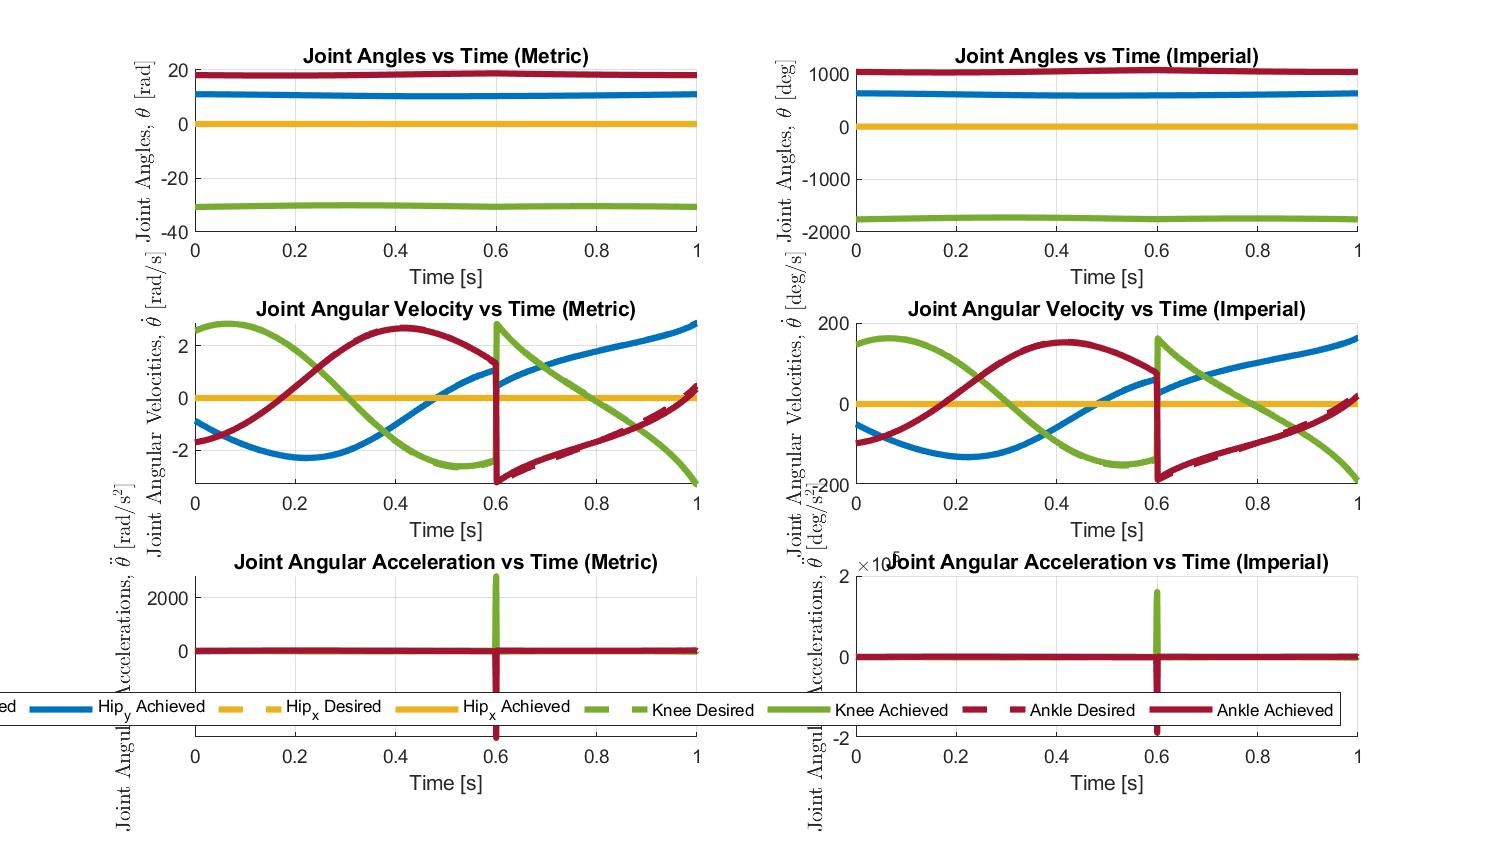
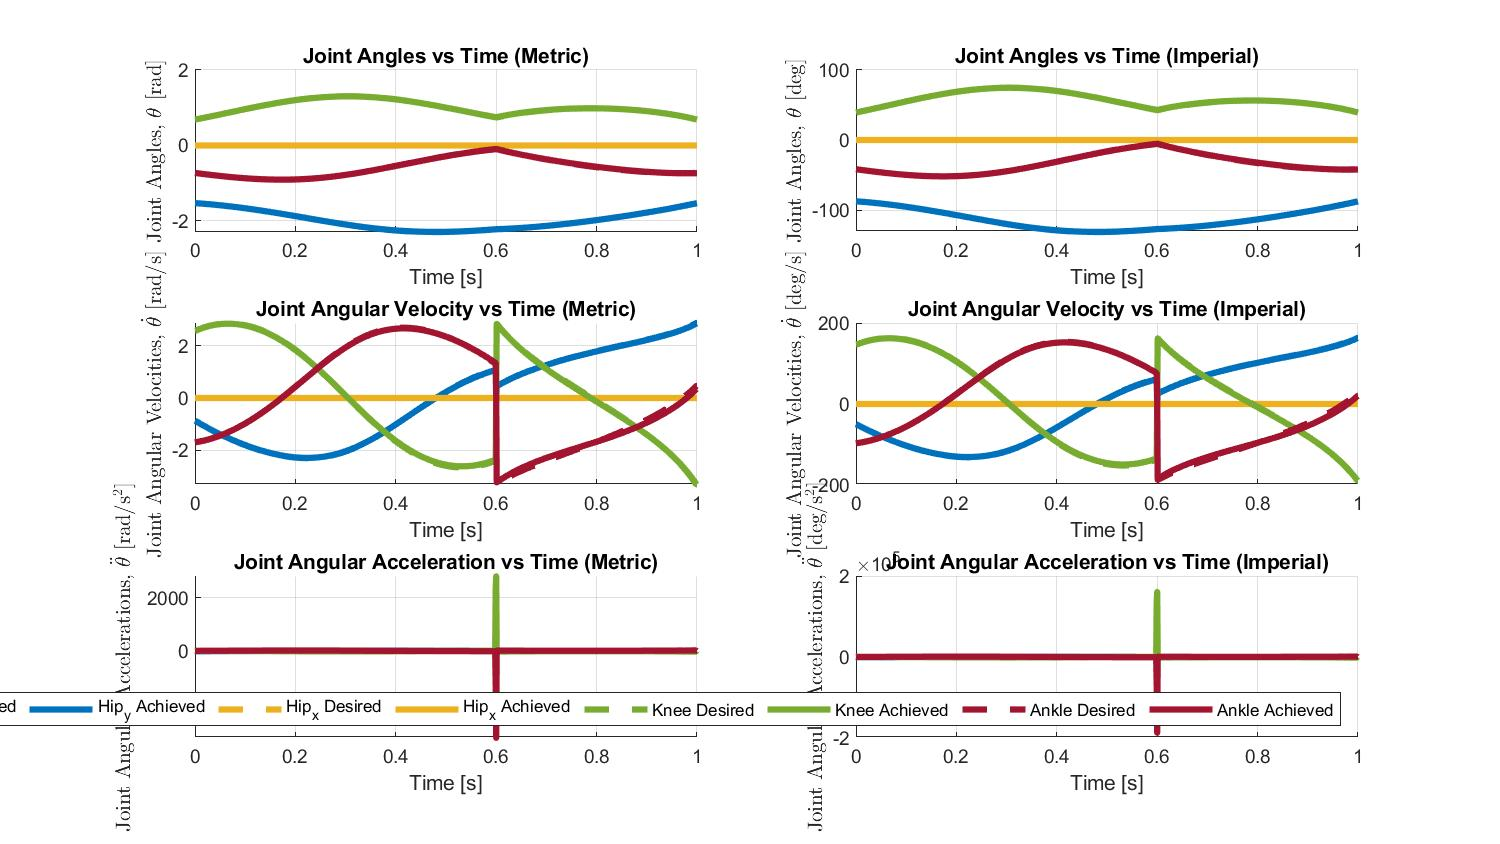
fixed high joint angles

Changed region(s): [[0.092, 0.0616, 0.46, 0.3081], [0.5213, 0.0616, 0.92, 0.3081]]

diff --git a/Code/Matlab/Analysis/Dynamic_Simulation/QuadrupedSimulation_EK_Combined.m b/Code/Matlab/Analysis/Dynamic_Simulation/QuadrupedSimulation_EK_Combined.m
@@ -15,6 +15,7 @@ tf = strcmp(answer, 'y');
 
 % Setting global origin to coordinate system 1 as defined by Miles
 
+
 % Define the mechanical properties of link 1 - defined by hip
 % flexion/extension (Hip swivel)
 m1 = 0.133594;                                                                                                  % [kg] Link Mass.
@@ -590,7 +591,7 @@ plot3( Phome_joints(1, :), Phome_joints(2, :), Phome_joints(3, :), '.r', 'Marker
 plot3(Phome_end(1), Phome_end(2), Phome_end(3), '.m', 'MarkerSize', 20)
 
 % Define a new desired pose for the left hind limb.
-thetas_desired = (pi/180)*[-90; 0; 0; 0];
+thetas_desired = (pi/180)*[-90; 0; 45; -45];
 % thetas_desired = (pi/180)*[-90; 0; 30; -10.21];
 % thetas_desired = (pi/180)*[-90; -15; 30; -10.21];
 
@@ -657,9 +658,9 @@ if tf == 0
     eomg = 1e-6; ev = 1e-6;
 
     % Define the starting joint angle values for the inverse kinematics algorithm.
-    theta_guess = (pi/180)*[-90; 0; 0; 0];
+%     theta_guess = (pi/180)*[-90; 0; 0; 0];
 
-%     theta_guess = (pi/180)*[-90; 0; 45; -45];
+    theta_guess = (pi/180)*[-90; 0; 45; -45];
 
     % Compute the joint angles associated with the desired trajectory.
     [thetas_desired, successes] = InverseKinematics(Ss, Mend, Ts_desired, theta_guess, eomg, ev);
@@ -1294,7 +1295,7 @@ SaveFigureAtSize(fig_muscleforces, filename, figure_size)
 %% Animate the Open Kinematic Chain.
 
 % Create a figure to store the animation.
-fig_animation = figure('Color', 'w', 'Name', 'Robot Animation'); hold on, rotate3d on, view(90, 0), xlabel('x'), ylabel('y'), zlabel('z')
+fig_animation = figure('Color', 'w', 'Name', 'Robot Animation'); hold on, rotate3d on, view(0, 90), xlabel('x'), ylabel('y'), zlabel('z')
 axis([-Ltotal Ltotal -Ltotal Ltotal -Ltotal Ltotal])                                      
 axis equal
 xlim([-0.6 0.6])
